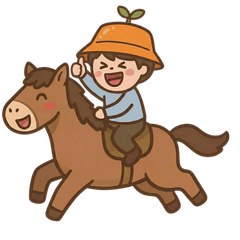
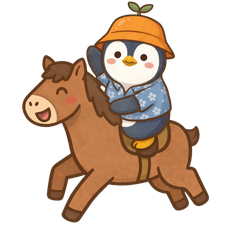
style: 로그인 이미지 login_final.png로 교체 + 말 이미지 업데이트

diff --git a/src/app/(auth)/login/page.tsx b/src/app/(auth)/login/page.tsx
@@ -8,7 +8,7 @@ export default function LoginPage() {
       <div className="flex w-full max-w-sm flex-col items-center gap-8">
         {/* 서비스 로고 + 명칭 — Server Component에서 렌더 → SSR preload 보장 */}
         <div className="flex flex-col items-center text-center">
-          <Image src="/logo.png" alt="미션트립" width={120} height={120} priority className="-mb-3" />
+          <Image src="/login_final.png" alt="미션트립" width={120} height={120} priority className="-mb-3" />
           <div className="space-y-1">
             <h1 className="text-2xl font-bold">혼디모영</h1>
             <p className="text-sm text-muted-foreground">
